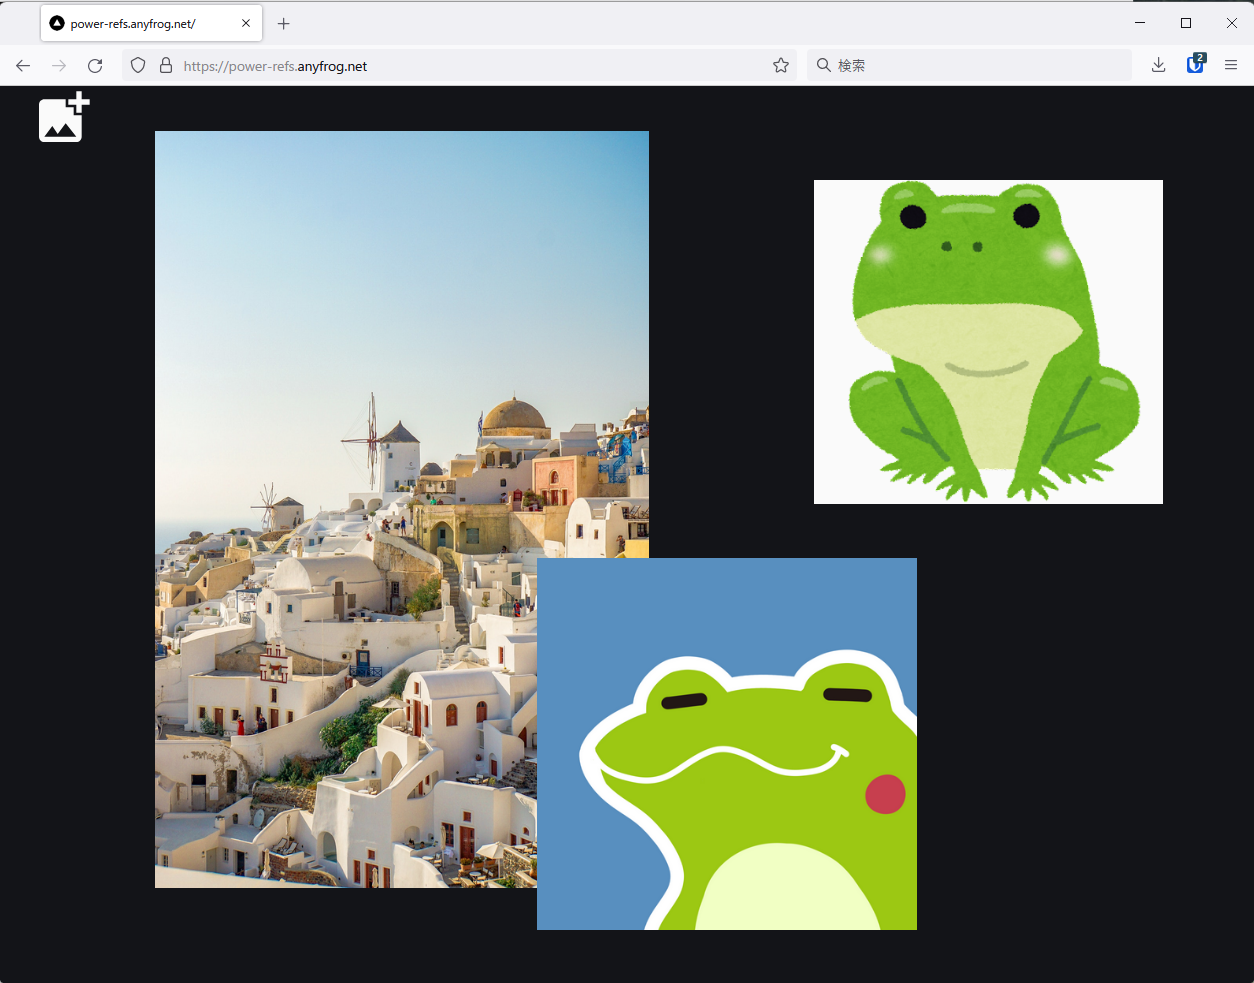
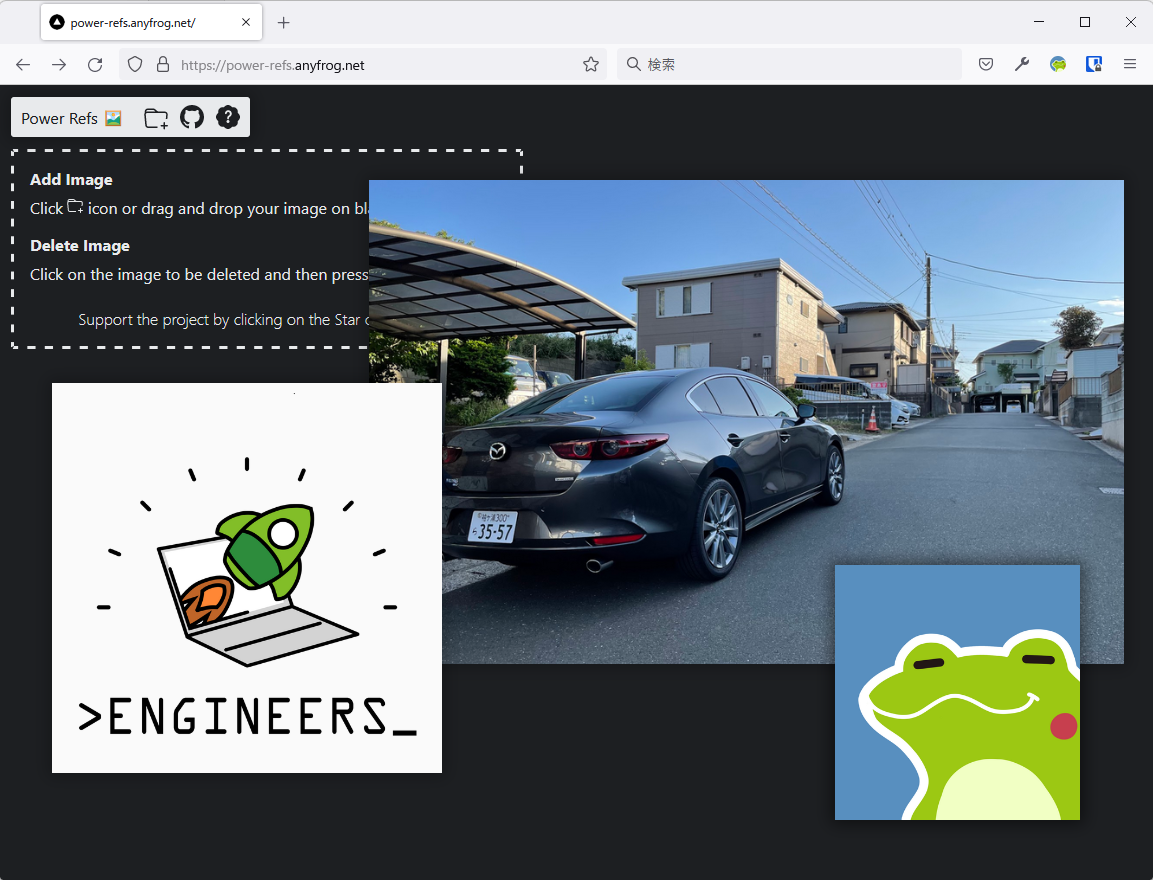
Update README.md

diff --git a/README.md b/README.md
@@ -1,9 +1,13 @@
 # Power Refs
-Webベースの資料ビューアです。PCにある資料をウィンドウ内で自由に動かしたりリサイズしたりすることができます。
+クリエイター向け参考資料ビューア。
+
+**PCを再起動しても、参考資料はそのまま。PC内の画像も、SNSの画像も簡単インポート。**
 
 ![Preview](https://github.com/kznrluk/power-refs/blob/main/docs/img.png?raw=true)
 
-インターネット上に画像をアップロードせず、画像はお使いのブラウザに保存されます。読み込み後はオフラインで動作します。
+- ブラウザを再起動しても画像の配置を維持。
+- 画像はブラウザ内に保存。アップロードなしで安心。
+- 直観的な操作で使いやすい。
 
 [試してみる](https://power-refs.anyfrog.net)
 
